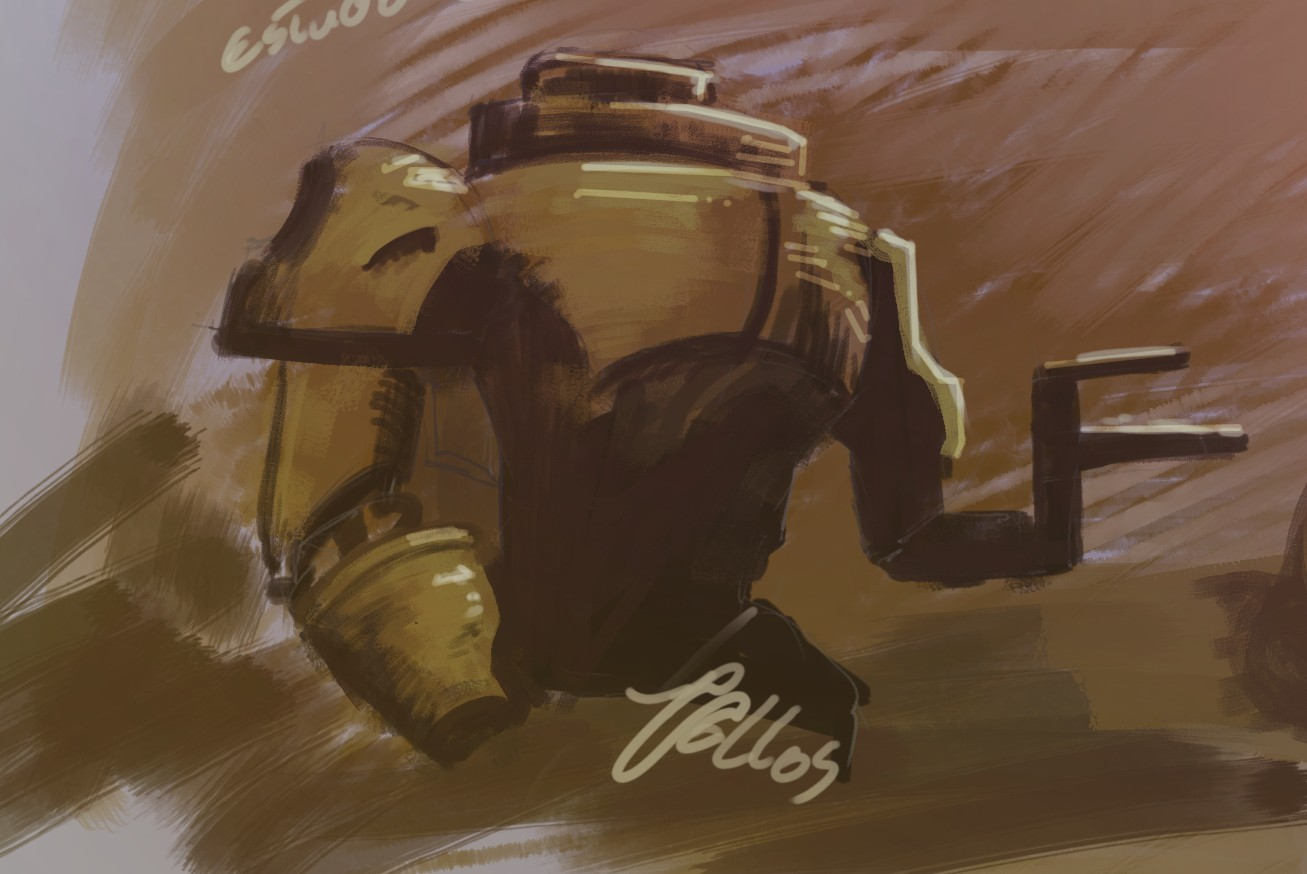
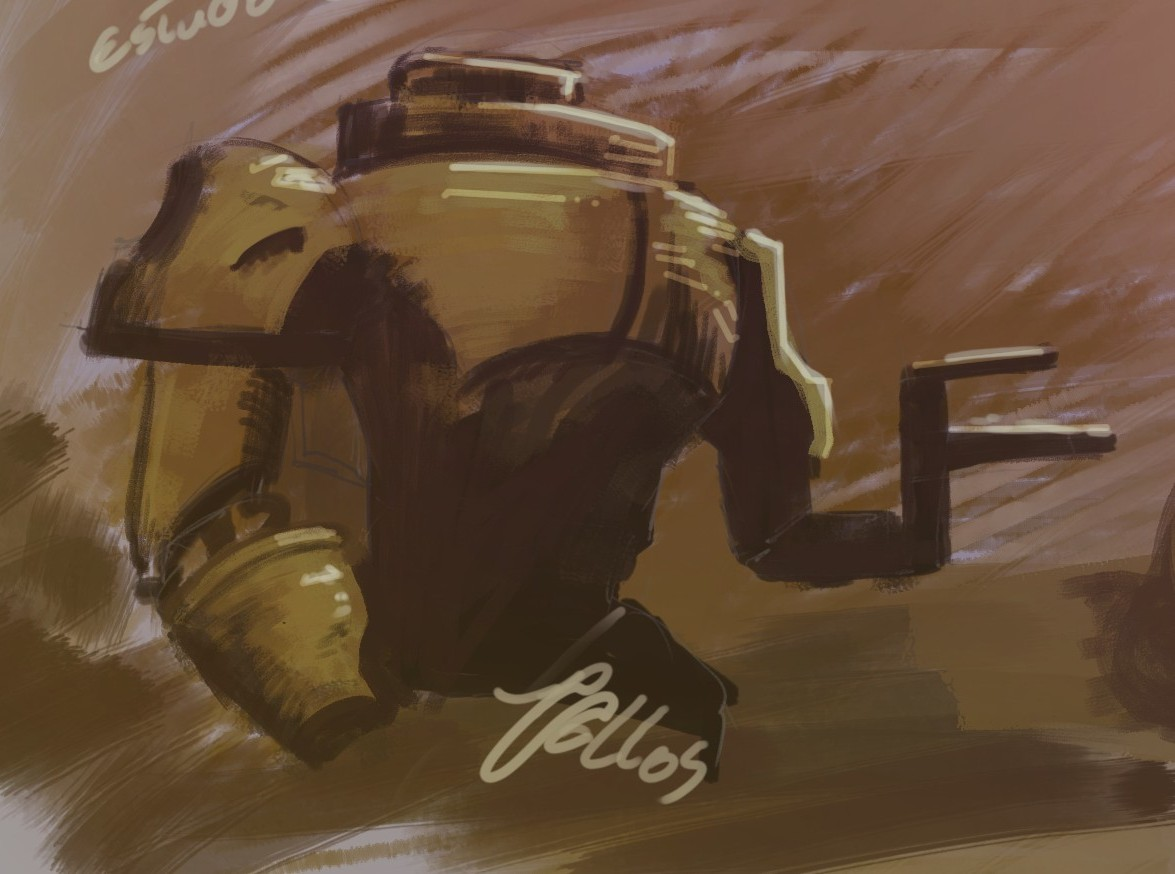
comit final
* alteraçao de cor
*dados das imagens

diff --git a/index.html b/index.html
@@ -38,7 +38,7 @@
       <img src="assets/img/my-profile-img.jpg" alt="" class="img-fluid rounded-circle">
     </div>
 
-    <a href="index.html" class="logo d-flex align-items-center justify-content-center">
+    <a href="#hero" class="logo d-flex align-items-center justify-content-center">
       <!-- Uncomment the line below if you also wish to use an image logo -->
       <!-- <img src="assets/img/logo.png" alt=""> -->
       <h1 class="sitename">Acyr C. Neto</h1>
@@ -52,7 +52,6 @@
 
     <nav id="navmenu" class="navmenu">
       <ul>
-        <li><a href="#hero" class="active"><i class="bi bi-house navicon"></i>Inicio</a></li>
         <li><a href="#about"><i class="bi bi-person navicon"></i> Sobre</a></li>
         <li><a href="#portfolio"><i class="bi bi-images navicon"></i> Portfolio</a></li>
         <li><a href="#contact"><i class="bi bi-envelope navicon"></i> Contato</a></li>
@@ -131,8 +130,7 @@ Tenho foco em Environment e Hard Surface otimizados para engines de jogos, além
               <div class="portfolio-content h-100">
                 <img src="assets/img/portfolio/paisagem1.jpg" class="img-fluid" alt="">
                 <div class="portfolio-info">
-                  <p>Lorem ipsum, dolor sit amet consectetur</p>
-                  <a href="assets/img/portfolio/paisagem1.jpg" title="App 1" data-gallery="portfolio-gallery-app" class="glightbox preview-link"><i class="bi bi-zoom-in"></i></a>
+                  <a href="assets/img/portfolio/paisagem1.jpg" title="Estudo" data-gallery="portfolio-gallery-app" class="glightbox preview-link"><i class="bi bi-zoom-in"></i></a>
                 </div>
               </div>
             </div><!-- End Portfolio Item -->
@@ -144,8 +142,7 @@ Tenho foco em Environment e Hard Surface otimizados para engines de jogos, além
                   Your browser does not support the video tag.
                 </video>
                 <div class="portfolio-info">
-                  <p>Lorem ipsum, dolor sit amet consectetur</p>
-                  <a href="assets/img/portfolio/cabal.mp4" title="Product 1"  data-gallery="portfolio-gallery-product" class="glightbox preview-link"><i class="bi bi-zoom-in"></i></a>
+                  <a href="assets/img/portfolio/cabal.mp4" title="Projeto de TCC Escultura Digital"  data-gallery="portfolio-gallery-product" class="glightbox preview-link"><i class="bi bi-zoom-in"></i></a>
                 </div>
               </div>
             </div><!-- End Portfolio Item -->
@@ -154,8 +151,7 @@ Tenho foco em Environment e Hard Surface otimizados para engines de jogos, além
               <div class="portfolio-content h-100">
                 <img src="assets/img/portfolio/cabalfim.png" class="img-fluid" alt="">
                 <div class="portfolio-info">
-                  <p>Lorem ipsum, dolor sit amet consectetur</p>
-                  <a href="assets/img/portfolio/cabalfim.png" title="Product 2" data-gallery="portfolio-gallery-product" class="glightbox preview-link"><i class="bi bi-zoom-in"></i></a>
+                  <a href="assets/img/portfolio/cabalfim.png" title="Projeto de TCC Escultura Digital" data-gallery="portfolio-gallery-product" class="glightbox preview-link"><i class="bi bi-zoom-in"></i></a>
                 </div>
               </div>
             </div><!-- End Portfolio Item -->
@@ -164,18 +160,18 @@ Tenho foco em Environment e Hard Surface otimizados para engines de jogos, além
               <div class="portfolio-content h-100">
                 <img src="assets/img/portfolio/retrato1.jpg" class="img-fluid" alt="">
                 <div class="portfolio-info">
-                  <p>Lorem ipsum, dolor sit amet consectetur</p>
-                  <a href="assets/img/portfolio/retrato1.jpg" title="App 3" data-gallery="portfolio-gallery-app" class="glightbox preview-link"><i class="bi bi-zoom-in"></i></a>
+                  <a href="assets/img/portfolio/retrato1.jpg" title="Retrato Estilizado" data-gallery="portfolio-gallery-app" class="glightbox preview-link"><i class="bi bi-zoom-in"></i></a>
                 </div>
               </div>
             </div><!-- End Portfolio Item -->
+
+            
 
             <div class="col-lg-4 col-md-6 portfolio-item isotope-item filter-product">
               <div class="portfolio-content h-100">
                 <img src="assets/img/portfolio/armour_scifi.png" class="img-fluid" alt="">
                 <div class="portfolio-info">
-                  <p>Lorem ipsum, dolor sit amet consectetur</p>
-                  <a href="assets/img/portfolio/armour_scifi.png" title="Product 3" data-gallery="portfolio-gallery-product" class="glightbox preview-link"><i class="bi bi-zoom-in"></i></a>
+                  <a href="assets/img/portfolio/armour_scifi.png" title="Blocagem Armadura Sci-fi" data-gallery="portfolio-gallery-product" class="glightbox preview-link"><i class="bi bi-zoom-in"></i></a>
                 </div>
               </div>
             </div><!-- End Portfolio Item -->
@@ -184,13 +180,24 @@ Tenho foco em Environment e Hard Surface otimizados para engines de jogos, além
               <div class="portfolio-content h-100">
                 <img src="assets/img/portfolio/robot.jpg" class="img-fluid" alt="">
                 <div class="portfolio-info">
-                  <p>Lorem ipsum, dolor sit amet consectetur</p>
-                  <a href="assets/img/portfolio/robot.jpg" title="App 4" data-gallery="portfolio-gallery-app" class="glightbox preview-link"><i class="bi bi-zoom-in"></i></a>
+                  <a href="assets/img/portfolio/robot.jpg" title="Sketch Mecha" data-gallery="portfolio-gallery-app" class="glightbox preview-link"><i class="bi bi-zoom-in"></i></a>
                 </div>
               </div>
             </div><!-- End Portfolio Item -->
 
+
+
+
             <div class="col-lg-4 col-md-6 portfolio-item isotope-item filter-product">
+              <div class="portfolio-content h-100">
+                <img src="assets/img/portfolio/render 2.jpg" class="img-fluid" alt="">
+                <div class="portfolio-info">
+                  <a href="assets/img/portfolio/render 2.jpg" title="Render Cenario Low Poly" data-gallery="portfolio-gallery-product" class="glightbox preview-link"><i class="bi bi-zoom-in"></i></a>
+                </div>
+              </div>
+            </div><!-- End Portfolio Item -->
+
+                        <div class="col-lg-4 col-md-6 portfolio-item isotope-item filter-product">
               <div class="portfolio-content h-100 ratio ratio-1x1">
                 <video controls  class="w-100 h-100 object-fit-cover">
                   <source src="assets/img/portfolio/Fiddle.mp4" type="video/mp4">
@@ -198,28 +205,7 @@ Tenho foco em Environment e Hard Surface otimizados para engines de jogos, além
                 </video>
                 <div class="portfolio-info">
                   <p>Lorem ipsum, dolor sit amet consectetur</p>
-                  <a href="assets/img/portfolio/Fiddle.mp4" title="Product 4" data-gallery="portfolio-gallery-product" class="glightbox preview-link"><i class="bi bi-zoom-in"></i></a>
-                </div>
-              </div>
-            </div><!-- End Portfolio Item -->
-
-
-            <div class="col-lg-4 col-md-6 portfolio-item isotope-item filter-product">
-              <div class="portfolio-content h-100">
-                <img src="assets/img/portfolio/render 2.jpg" class="img-fluid" alt="">
-                <div class="portfolio-info">
-                  <p>Lorem ipsum, dolor sit amet consectetur</p>
-                  <a href="assets/img/portfolio/render 2.jpg" title="Product 5" data-gallery="portfolio-gallery-product" class="glightbox preview-link"><i class="bi bi-zoom-in"></i></a>
-                </div>
-              </div>
-            </div><!-- End Portfolio Item -->
-
-            <div class="col-lg-4 col-md-6 portfolio-item isotope-item filter-app">
-              <div class="portfolio-content h-100">
-                <img src="assets/img/portfolio/child.png" class="img-fluid" alt="">
-                <div class="portfolio-info">
-                  <p>Lorem ipsum, dolor sit amet consectetur</p>
-                  <a href="assets/img/portfolio/child.png" title="App 6" data-gallery="portfolio-gallery-app" class="glightbox preview-link"><i class="bi bi-zoom-in"></i></a>
+                  <a href="assets/img/portfolio/Fiddle.mp4" title="Projeto Walk-Envrioment Collab 2022" data-gallery="portfolio-gallery-product" class="glightbox preview-link"><i class="bi bi-zoom-in"></i></a>
                 </div>
               </div>
             </div><!-- End Portfolio Item -->
@@ -228,8 +214,7 @@ Tenho foco em Environment e Hard Surface otimizados para engines de jogos, além
               <div class="portfolio-content h-100">
                 <img src="assets/img/portfolio/3d model.jpg" class="img-fluid" alt="">
                 <div class="portfolio-info">
-                  <p>Lorem ipsum, dolor sit amet consectetur</p>
-                  <a href="assets/img/portfolio/3d model.jpg" title="Product 6" data-gallery="portfolio-gallery-product" class="glightbox preview-link"><i class="bi bi-zoom-in"></i></a>
+                  <a href="assets/img/portfolio/3d model.jpg" title="Modelagem de Personagem" data-gallery="portfolio-gallery-product" class="glightbox preview-link"><i class="bi bi-zoom-in"></i></a>
                 </div>
               </div>
             </div><!-- End Portfolio Item -->
@@ -295,6 +280,12 @@ Tenho foco em Environment e Hard Surface otimizados para engines de jogos, além
   </main>
 
   <footer>
+
+  
+
+
+
+
   </footer>
 
   <!-- Scroll Top -->

diff --git a/assets/css/main.css b/assets/css/main.css
@@ -40,7 +40,7 @@
 /* Color Presets - These classes override global colors when applied to any section or element, providing reuse of the sam color scheme. */
 
 .light-background {
-  --background-color: #f4fafd;
+  --background-color: #f1bbbb43;
   --surface-color: #ffffff;
 }
 
@@ -144,7 +144,7 @@ h6 {
 --------------------------------------------------------------*/
 .header {
   color: var(--default-color);
-  background-color: rgba(4, 11, 20, 0.9);
+  background-color: rgba(16, 11, 11, 0.479);
   position: fixed;
   top: 0;
   left: 6vh;
@@ -218,9 +218,9 @@ h6 {
 }
 
 @media (min-width: 1200px) {
-  .main > section:not(#hero):not(#portfolio),
+  .main > section:not(#hero),
   .footer {
-    margin-left: 400px;
+    padding-left: 400px;
   }
 }
 
@@ -792,7 +792,6 @@ section,
 .portfolio .portfolio-filters li {
   cursor: pointer;
   display: inline-block;
-  padding: 0;
   font-size: 14px;
   font-weight: 400;
   margin: 0 10px;
